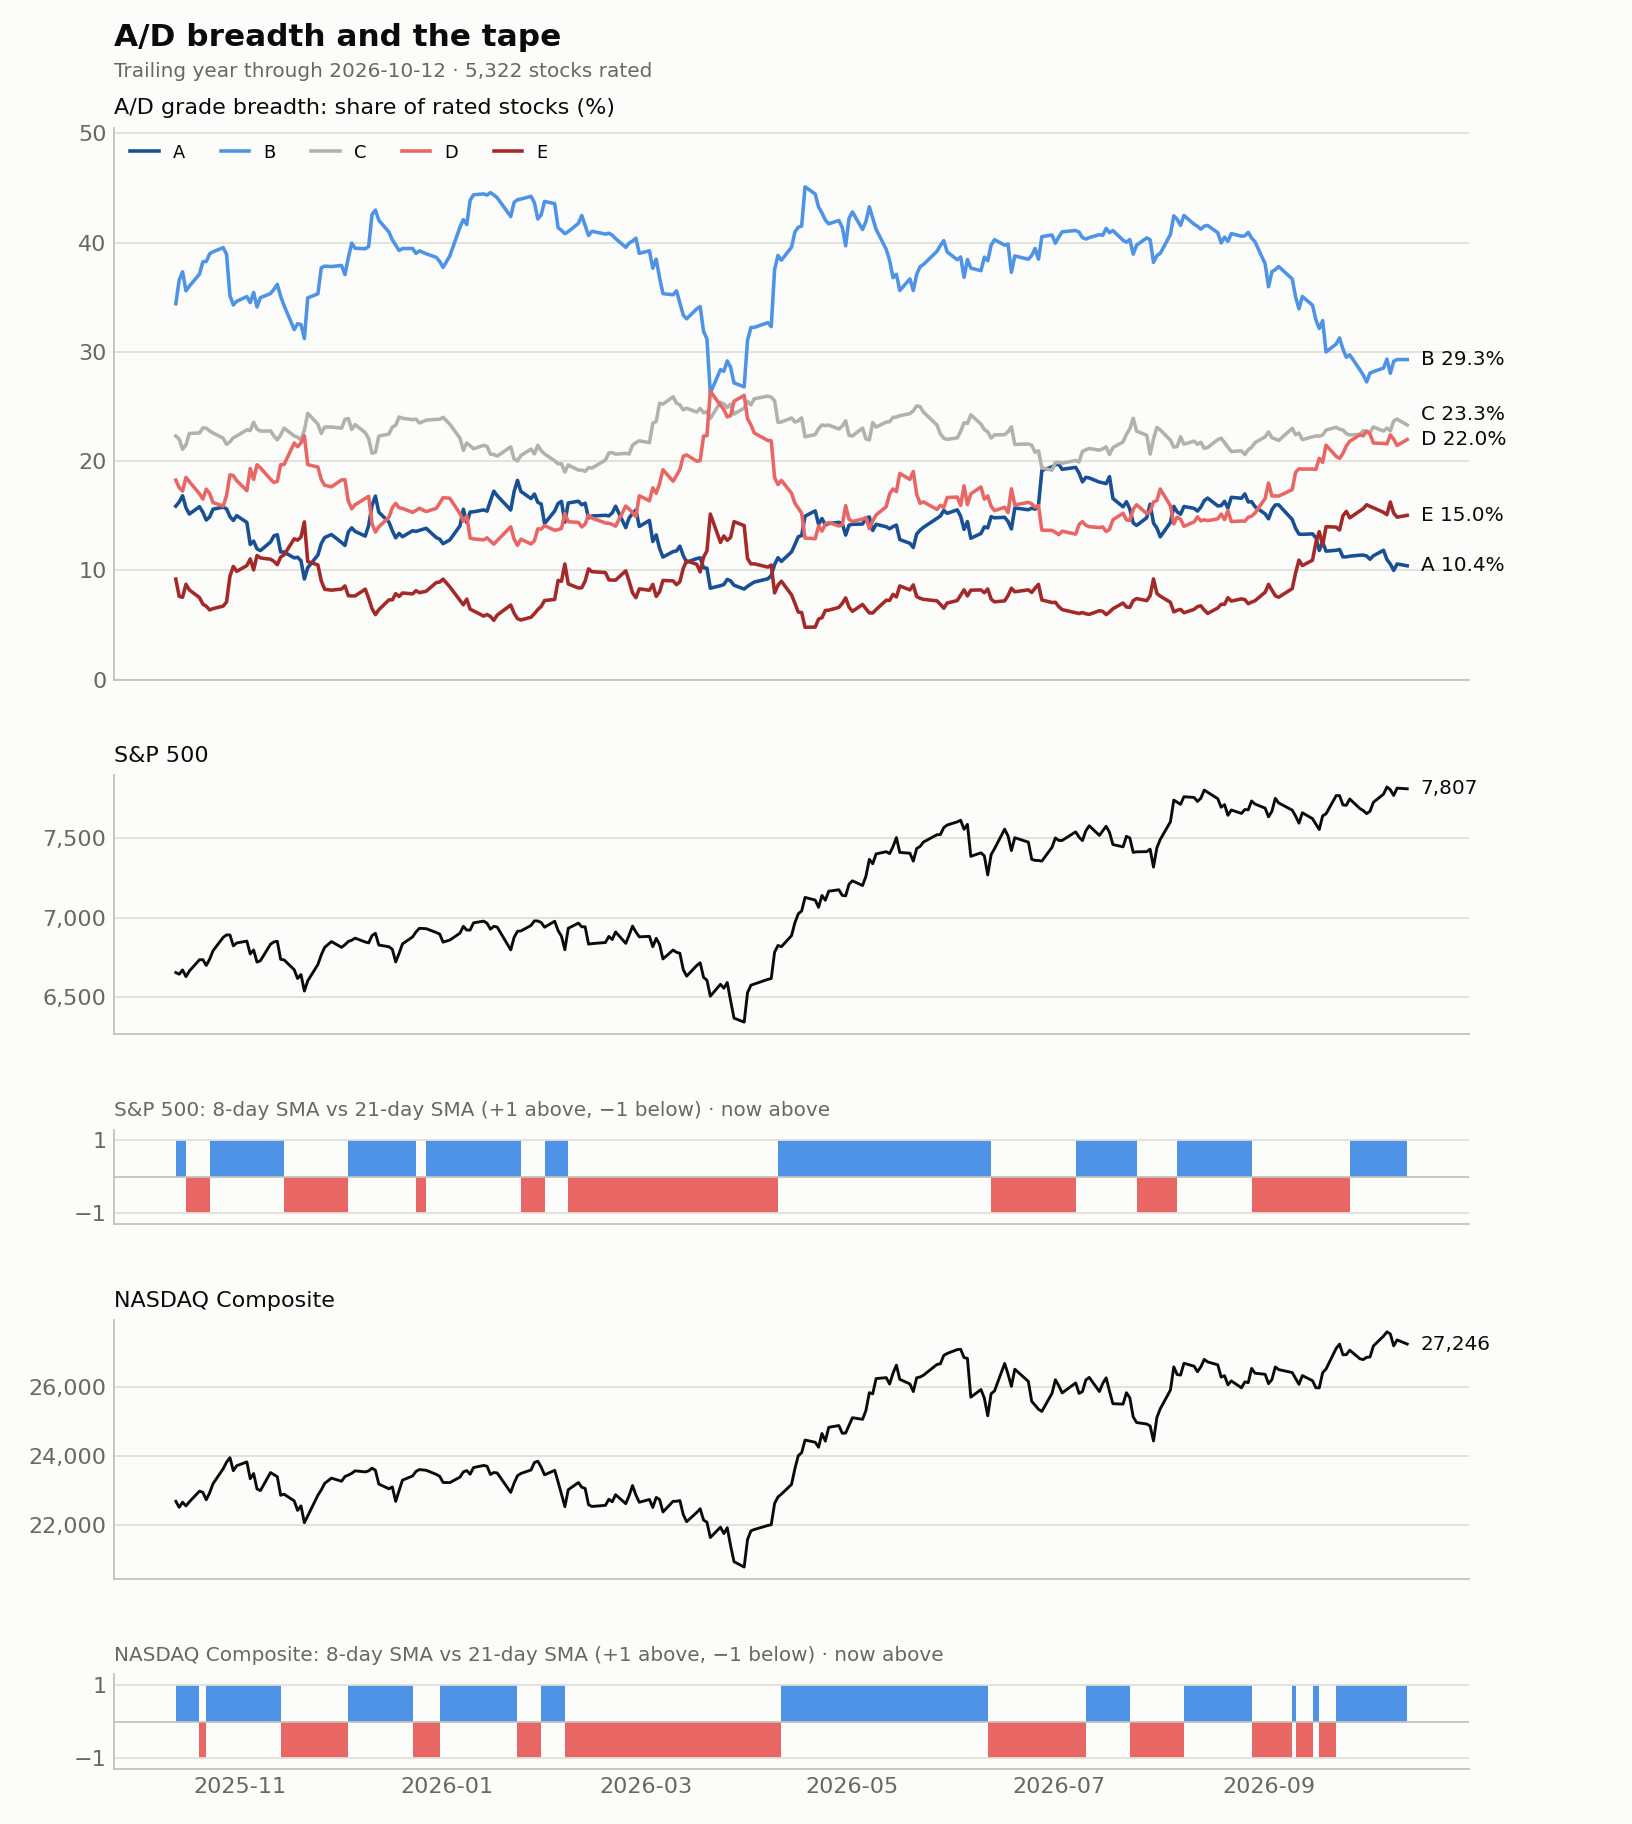
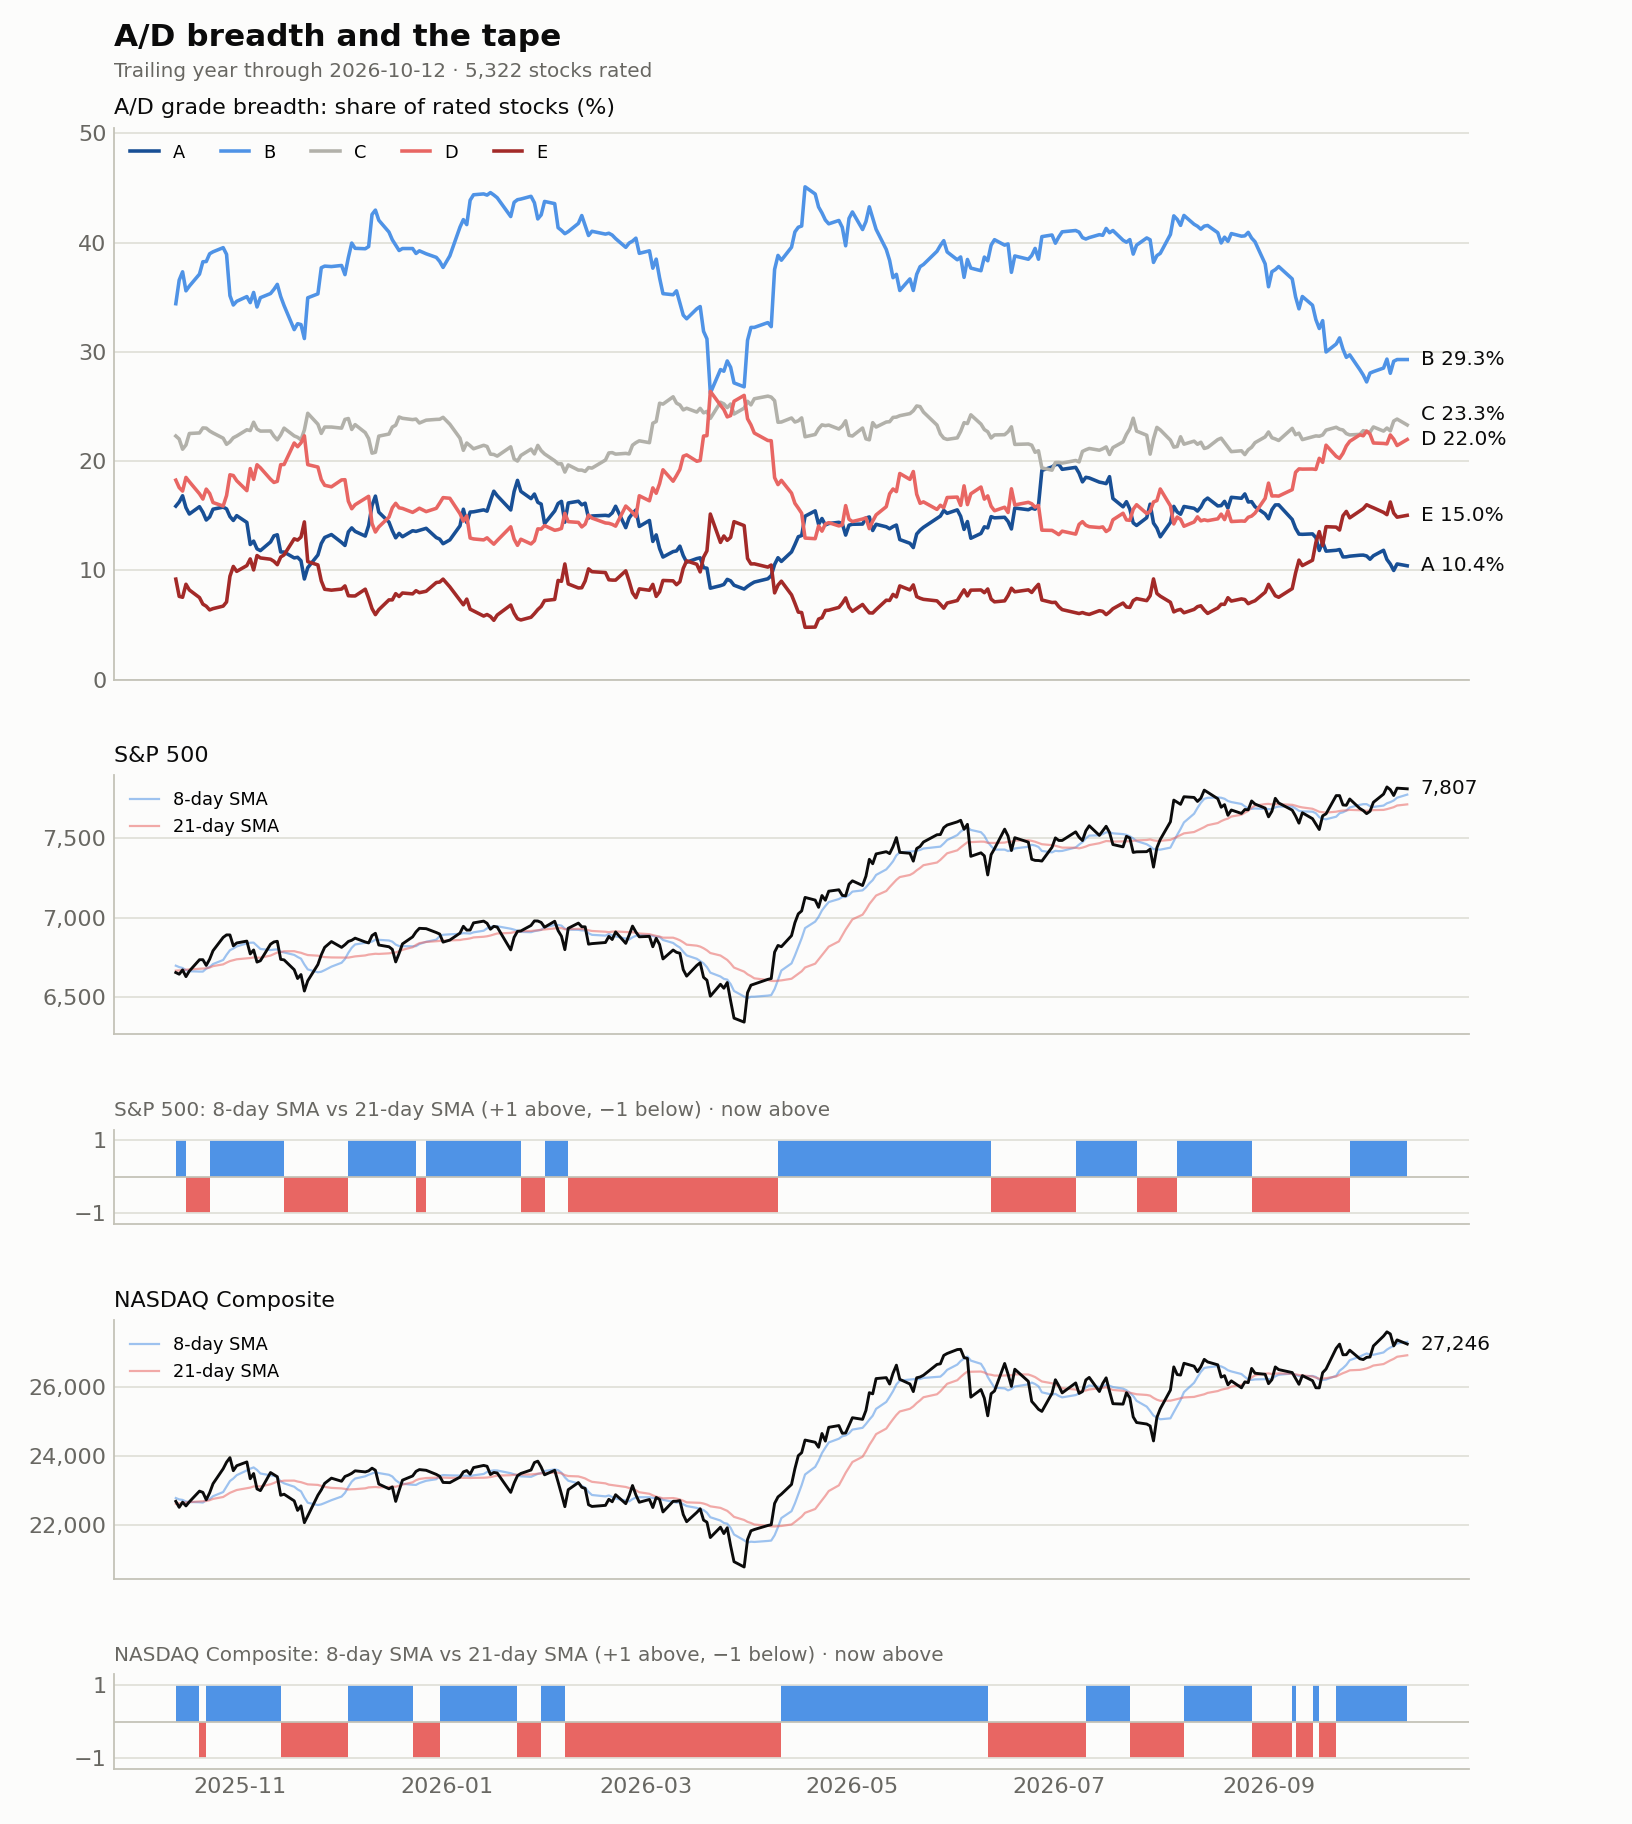
Breadth page: faint 8- and 21-day SMAs on the index panels

diff --git a/open8585/breadth.py b/open8585/breadth.py
@@ -124,10 +124,15 @@ def plot(history: pd.DataFrame, path: Path, indexes: pd.DataFrame) -> None:
     for i, name in enumerate(INDEXES):
         close = indexes[name].dropna()
         signal = ma_signal(close).reindex(dates, method="ffill")
+        # SMAs from the full series (incl. the warm-up before the window)
+        smas = {n: close.rolling(n).mean().reindex(dates, method="ffill") for n in (FAST_SMA, SLOW_SMA)}
         close = close.reindex(dates, method="ffill")
         price_ax, step_ax = axes[1 + 2 * i], axes[2 + 2 * i]
         _style(price_ax)
+        for n, color in ((FAST_SMA, UP), (SLOW_SMA, DOWN)):
+            price_ax.plot(dates, smas[n], color=color, linewidth=1.0, alpha=0.55, label=f"{n}-day SMA")
         price_ax.plot(dates, close, color=INK, linewidth=1.3)
+        price_ax.legend(frameon=False, loc="upper left", fontsize=8, handlelength=1.6)
         price_ax.annotate(f"{close.iloc[-1]:,.0f}", (dates[-1], close.iloc[-1]), xytext=(6, 0),
                           textcoords="offset points", va="center", fontsize=9, color=INK)
         price_ax.set_title(name, loc="left", fontsize=10, color=INK)
